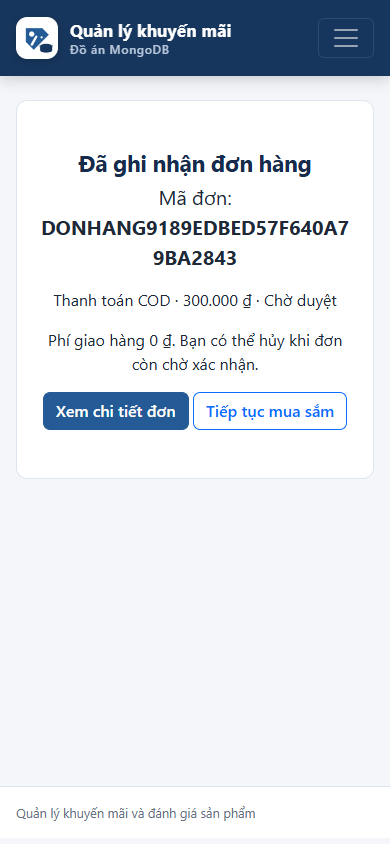
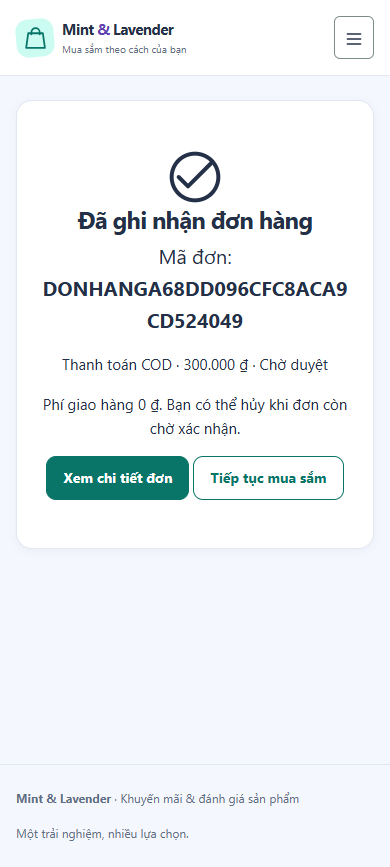
docs(ui): add theme and shopping verification screenshots

diff --git a/docs/MINT_LAVENDER_UI.md b/docs/MINT_LAVENDER_UI.md
@@ -1,0 +1,124 @@
+# Nâng cấp UI/UX Mint & Lavender
+
+Ngày kiểm tra: 13/11/2026 (Asia/Saigon). Triển khai trực tiếp trên repository Flask/Jinja2/Bootstrap hiện hữu.
+
+## A. Audit và quyết định thiết kế
+
+- Navbar xanh đậm trước đây gom toàn bộ nghiệp vụ và mua sắm vào một hàng. Nay header trắng cho mua sắm, sidebar quản trị riêng từ permission thực tế của từng vai trò. Nhân viên chỉ nhìn thấy các nhóm được cấp quyền; không đổi role matrix hay landing sau đăng nhập.
+- Các bộ lọc quản trị thiếu label, mất lựa chọn sau reload và phân trang sản phẩm làm mất query. Đã bổ sung label/reset, giữ giá trị và query; bộ lọc giá/nhãn được thu gọn, tự mở khi đang áp dụng.
+- Form CRUD trước đây render lại dữ liệu cũ/trống sau validation error. Nay template đọc lại request.form, escape bằng Jinja; tên field, quy tắc validation và cách ghi dữ liệu không đổi.
+- CSS trước đây thiên về navy/blue, focus ring vàng và bo góc nhỏ. Đã thay bằng hệ token Mint/Lavender, typography, spacing, shadow và radius dùng chung; không thêm thư viện UI hay font network.
+- Submit handler cũ vô hiệu hóa một số button trước khi browser thu thập dữ liệu. Nay giữ button nguyên vẹn, chặn submit lặp ở cấp form, chỉ đổi nhãn sau xác nhận và khôi phục khi quay lại bằng Back.
+- SVG trước đây scale nhãn quá nhỏ ở mobile và bảng dữ liệu bị ẩn hoàn toàn. Nay kích thước biểu đồ dựa theo vùng chứa, cuộn trong card khi cần, có tooltip và bảng số liệu mở được bằng bàn phím. API lỗi được phân biệt với không có dữ liệu và cô lập theo nhóm.
+- Trang lỗi trước đây luôn dẫn về route tổng quan chỉ Admin được xem. Nay dùng landing hiện hữu và có đường về catalog.
+
+## B. Tệp mã nguồn đã sửa/thêm
+
+| Đường dẫn | Thay đổi và mục đích |
+|---|---|
+| `scripts/verify_mint_ui.py` | Kiểm tra Edge 5 viewport, keyboard/navigation, overflow, reduced motion và lỗi/rỗng dashboard trên dữ liệu bộ nhớ. |
+| `static/css/app.css` | Design tokens, Bootstrap overrides, layout, card/form/table, responsive và reduced motion. |
+| `static/img/logo.svg` | SVG logo/ảnh dự phòng đồng bộ Mint & Lavender; favicon không gọi route không tồn tại. |
+| `static/img/product-placeholder.svg` | SVG logo/ảnh dự phòng đồng bộ Mint & Lavender; favicon không gọi route không tồn tại. |
+| `static/js/app.js` | Giữ submitter nguyên vẹn, khóa gửi lặp, khôi phục khi Back, password toggle, fallback ảnh và vùng bảng dùng bàn phím; giữ CSRF fetch wrapper. |
+| `static/js/dashboard.js` | Palette, SVG responsive, tooltip, bảng số liệu mở rộng, loading và lỗi riêng từng API. |
+| `static/js/reports.js` | Giữ vùng bảng truy cập bằng bàn phím sau chuyển báo cáo AJAX; tránh lặp thông báo lỗi. |
+| `templates/auth/account.html` | Account tabs theo quyền, badge/empty state/xác nhận thống nhất. |
+| `templates/auth/cart.html` | Tiến trình mua hàng; kế thừa tổng tiền sticky, form và voucher styling dùng chung. |
+| `templates/auth/catalog.html` | Hero, tìm kiếm/lọc, card ảnh/giá/rating/tồn kho và empty state; không tạo ưu đãi giả. |
+| `templates/auth/checkout.html` | Tiến trình, dấu bắt buộc, summary sticky và lời hướng dẫn; giữ action/CSRF/quote/formaction/formnovalidate. |
+| `templates/auth/login.html` | Form trung tâm, bố cục giới thiệu, giữ email sau lỗi, nút hiện/ẩn mật khẩu và autocomplete. |
+| `templates/auth/order_confirmation.html` | Account tabs theo quyền, badge/empty state/xác nhận thống nhất. |
+| `templates/auth/orders.html` | Account tabs theo quyền, badge/empty state/xác nhận thống nhất. |
+| `templates/auth/password.html` | Account tabs theo quyền, badge/empty state/xác nhận thống nhất. |
+| `templates/auth/public_product.html` | Ảnh đơn theo dữ liệu thật, khối mua hàng/thông số và badge xác minh có text. |
+| `templates/auth/reviews.html` | Account tabs theo quyền, badge/empty state/xác nhận thống nhất. |
+| `templates/auth/users.html` | Badge trạng thái tài khoản, giữ nguyên scope quản lý và tất cả hành động. |
+| `templates/auth/vouchers.html` | Voucher card có trạng thái, mã dạng vé, điều kiện và CTA từ dữ liệu hiện có. |
+| `templates/base.html` | Header mua sắm, chuyển không gian quản trị, dropdown, skip link, footer và phân bố layout theo quyền. |
+| `templates/components/admin_sidebar.html` | Macro icon/navigation/KPI/account tabs và sidebar chia nhóm theo permission; tái sử dụng Jinja. |
+| `templates/components/ui.html` | Macro icon/navigation/KPI/account tabs và sidebar chia nhóm theo permission; tái sử dụng Jinja. |
+| `templates/customers/detail.html` | Bọc bảng trong vùng cuộn ngang để bảo vệ layout mobile. |
+| `templates/customers/form.html` | Label liên kết input, ký hiệu bắt buộc, section và giữ toàn bộ dữ liệu không bí mật khi validation lỗi. |
+| `templates/customers/list.html` | Header, filter có label/reset và giữ lựa chọn, bảng và trạng thái nhất quán. |
+| `templates/dashboard/index.html` | Mô tả nghiệp vụ, loading, aria-live; giữ DOM ID và URL script hiện hữu. |
+| `templates/error.html` | Error state có hướng quay về theo landing hiện hữu và danh mục. |
+| `templates/home.html` | KPI và thẻ truy cập nhanh theo permission. |
+| `templates/orders/list.html` | Header, filter có label/reset và giữ lựa chọn, bảng và trạng thái nhất quán. |
+| `templates/products/detail.html` | Bọc bảng trong vùng cuộn ngang để bảo vệ layout mobile. |
+| `templates/products/form.html` | Label liên kết input, ký hiệu bắt buộc, section và giữ toàn bộ dữ liệu không bí mật khi validation lỗi. |
+| `templates/products/list.html` | Label/bộ lọc nâng cao, giữ query khi phân trang và bỏ liên kết disabled khỏi tab order. |
+| `templates/promotions/detail.html` | Bọc bảng trong vùng cuộn ngang để bảo vệ layout mobile. |
+| `templates/promotions/form.html` | Label liên kết input, ký hiệu bắt buộc, section và giữ toàn bộ dữ liệu không bí mật khi validation lỗi. |
+| `templates/promotions/list.html` | Header, filter có label/reset và giữ lựa chọn, bảng và trạng thái nhất quán. |
+| `templates/reviews/list.html` | Header, filter có label/reset và giữ lựa chọn, bảng và trạng thái nhất quán. |
+| `tests/test_shopping.py` | Chấp nhận aria-hidden="true" hợp lệ trong assertion; vẫn chặn supplierPassword và giá trị fixture bí mật. |
+| `tests/test_ui_regression.py` | 15 test bổ sung: sidebar của 8 vai trò, query phân trang, 5 bộ lọc và giữ/escape form lỗi. |
+
+Bằng chứng sinh trong lần chạy này: `docs/mint-lavender-test-results.xml`, `docs/shopping-replica-results.xml`, ảnh `docs/shopping-ui/`, ảnh và kết quả `docs/mint-lavender-ui/`. Ảnh dùng dữ liệu test tổng hợp, không phải dữ liệu khách hàng thật.
+
+## C. Thiết kế mới
+
+- Primary `#14B8A6`, hover `#0F9488`, nền `#CCFBF1`; secondary `#A78BFA`/`#EDE9FE`; accent `#FB7185`/`#FFE4E6`; nền trang `#F5F7FF`, surface trắng. Primary button dùng mint đậm `#087568` với chữ trắng để đạt AA. Lavender/pink dùng mực đậm trên nền sáng.
+- Chữ chính `#243047`; chữ phụ điều chỉnh từ `#64748B` sang `#5F6F85` để đạt 4.79:1 trên nền trang. Viền input `#8593A7` đạt 3.12:1 trên trắng. Giữ nguyên tinh thần bảng màu yêu cầu.
+- Font Inter nếu máy đã có, fallback Segoe UI/Arial hỗ trợ tiếng Việt; body 15px, title 24–30px. Radius 8/12/16/20px, spacing theo thang 4–48px.
+- Shopping: hero gọn, product grid 1/2/3/4 cột theo viewport, ảnh contain, tồn kho/rating thật, voucher dạng vé, cart/checkout 2 cột desktop và 1 cột mobile, account tabs.
+- Admin: sidebar desktop ở >=1200px; offcanvas mobile có focus trap/Escape. KPI, module card, bảng header mint, hover lavender và status có cả chữ/màu.
+- Accessibility: skip link, label/input, required marker, focus-visible, bảng có vùng cuộn focus được, password toggle với aria-pressed, hỗ trợ reduced motion. Không thêm animation liên tục.
+
+## D. Kiểm thử
+
+Dùng `.venv\Scripts\python.exe` thay cho Python hệ thống. Kết quả cuối được lưu kèm XML/JSON.
+
+| Lệnh / kiểm tra | Kết quả |
+|---|---|
+| `python -m pytest -q --junitxml=docs/mint-lavender-test-results.xml` | PASS: 239 test, SKIP: 15 test cần MongoDB thật. |
+| `python scripts/verify_shopping_replica.py` | PASS: 15/15 test tích hợp MongoDB thật; Edge desktop/mobile chạy trọn mua sắm. Script tạo replica container ngẫu nhiên riêng và tự dọn. |
+| `python scripts/verify_mint_ui.py` | PASS: 85 mục kiểm tra ở 5 viewport; kết quả chi tiết: [results.json](mint-lavender-ui/results.json). |
+| `python -m compileall -q app.py config.py db repositories routes services scripts` | PASS. |
+| `node --check static/js/app.js` | PASS. |
+| `node --check static/js/dashboard.js` | PASS. |
+| `node --check static/js/reports.js` | PASS. |
+| `docker compose config --quiet` | PASS; cùng bước xác thực cấu hình như `docker compose config`, không in credential đã nội suy. |
+| `git diff --check` | PASS. |
+| 11 cặp màu chữ/control | PASS; số đo cụ thể: [contrast.json](mint-lavender-ui/contrast.json). |
+
+Luồng đã xác minh:
+
+- Guest: catalog, tìm kiếm/lọc, chi tiết, đánh giá approved, login; danh mục rỗng có đường quay lại.
+- Customer trên replica thật: đăng nhập, thêm giỏ, áp mã, tạo quote, bỏ/áp lại mã ở checkout mà giữ số điện thoại, đặt COD, xem đơn, đánh giá từ đơn đủ điều kiện, hủy pending. Suite HTTP kiểm tra thêm sửa số lượng/xóa, giá/điều kiện mã/ownership/CSRF và lỗi quote.
+- Admin trên replica: xác nhận/hoàn tất đơn qua button name/value; các trang quản trị, thống kê, báo cáo và tài khoản trên Edge. CRUD và validation qua test tự động.
+- 8 vai trò: route/method matrix hiện có, sidebar chỉ chứa đúng destination được phép; scope tài khoản và sở hữu đơn/review được kiểm tra.
+- UI: 360/390/768/1024/1440px, không cuộn ngang toàn trang; menu mở/đóng, Escape, mật khẩu hiện/ẩn, skip link; dashboard loading kết thúc, lỗi một API giữ nhóm khác, trạng thái rỗng; reduced motion; không có JS exception ngoài lỗi API chủ động mô phỏng.
+- Mô phỏng không gian hiển thị khi zoom 200% bằng CSS viewport 720px từ desktop 1440px. Chưa thao tác zoom thực trong giao diện browser hay kiểm thử screen reader thật.
+
+Giới hạn môi trường: Mongomock phát cảnh báo `datetime.utcnow()` từ dependency. Một số lượt sandbox không ghi được cache pytest hoặc đọc Docker config; lượt cần Docker/network đã chạy trong môi trường được cấp quyền và có kết quả thực. Không đổi CSP, authentication hay CSRF để chạy browser. Bootstrap vẫn dùng CDN hiện hữu, cần kết nối mạng ở lần tải đầu.
+
+## E. Bảo toàn bảo mật và nghiệp vụ
+
+Không sửa `routes/`, `services/`, `repositories/`, `db/`, `app.py`, `config.py`, schema hay cấu hình Docker. Không đổi endpoint, HTTP method, API envelope, CRUD, RBAC, quyền sở hữu, phiên đăng nhập hoặc tính toán giá/tồn kho/mã/checkout/review.
+
+Mọi form POST giữ CSRF. Fetch wrapper vẫn chỉ bổ sung X-CSRF-Token cho same-origin POST/PUT/PATCH/DELETE. Checkout giữ action/key, confirmation, formnovalidate/formaction của nút áp mã và name/value của submitter. Test replica bao gồm rollback, checkout đồng thời/replay, quote hết hạn/sai chủ/thay đổi giỏ và vòng đời tồn kho/lượt mã.
+
+Không đưa dữ liệu API chưa escape vào HTML. Nội dung động dùng textContent hoặc escapeHtml; Jinja giữ autoescape. Không thêm đăng ký công khai, quên mật khẩu, gallery nhiều ảnh, giảm giá giả hay lộ lượt dùng mã nội bộ. Không import/reset hoặc chỉnh sửa dữ liệu thật, không commit/push.
+
+## F. Kết quả và cách chạy
+
+Đã triển khai giao diện thống nhất cho mua sắm, account, overview/dashboard, các trang quản trị và báo cáo. Các kiểm thử nghiệp vụ, phân quyền và giao dịch nêu trên đạt. Xem [catalog desktop](mint-lavender-ui/1440-guest-catalog.png), [dashboard desktop](mint-lavender-ui/1440-dashboard.png), [catalog mobile](mint-lavender-ui/360-guest-catalog.png), [dashboard mobile](mint-lavender-ui/360-dashboard.png), [checkout mobile trên replica](shopping-ui/mobile-checkout.png).
+
+Chạy ứng dụng theo cấu hình `.env` hiện có:
+
+```powershell
+.\.venv\Scripts\python.exe app.py
+```
+
+Mở `/catalog` và `/login` tại host/cổng ứng dụng in ra; `.env.example`/README dùng `http://127.0.0.1:5002`. Nếu dùng Docker hiện hữu, build lại app bằng `docker compose up --build -d app`; không chạy thêm Python cùng cổng. Chưa tự restart/deploy bản ứng dụng đang phục vụ người dùng.
+
+Chạy lại kiểm tra giao diện (cần Playwright và Microsoft Edge đã cài):
+
+```powershell
+.\.venv\Scripts\python.exe scripts/verify_mint_ui.py
+.\.venv\Scripts\python.exe scripts/verify_shopping_replica.py
+```
+
+Phần chưa xác minh: Safari/Firefox, thiết bị vật lý, screen reader thực, zoom browser thực, chứng nhận WCAG toàn diện, performance/load/HA production. Số đo tương phản là 11 cặp màu chủ chốt, không phải audit mọi pixel/overlay. Không có thay đổi backend đang chờ hoàn tất.

diff --git a/docs/SHOPPING.md b/docs/SHOPPING.md
@@ -287,3 +287,11 @@ Tham chiếu: [PyMongo transactions/callback retries](https://www.mongodb.com/do
 - `tests/test_shopping.py`, `tests/test_shopping_replica.py`, `tests/shopping_support.py`: unit/HTTP/concurrency fixtures.
 - `scripts/verify_shopping_replica.py`, `scripts/verify_shopping_browser.py`, `scripts/verify_shopping_compose.py`: môi trường kiểm thử thật riêng.
 - `scripts/export_security_policy.py`, README và các tài liệu schema/policy: hướng dẫn, ma trận, route và bằng chứng.
+
+## Tự cập nhật giá khi thay đổi giỏ và mã
+
+`static/js/shopping.js` gửi lại form hiện hữu khi người dùng xác nhận thay đổi số lượng (change), nhập mã rồi rời ô, hoặc chọn/bỏ mã trong dropdown. Không cần bấm nút Cập nhật/Áp mã; các nút vẫn dùng được như thao tác dự phòng. Thêm sản phẩm vẫn đi qua POST giỏ hiện hữu và hiển thị giá mới từ máy chủ.
+
+Tại checkout, script gọi requestSubmit đúng nút có formaction checkout_promotion, formnovalidate và data-skip-confirm. Máy chủ tạo quote mới và giữ thông tin nhận hàng. Không gọi nút đặt hàng, không tính tiền bằng JS, không bỏ CSRF/ownership/quote validation. Giá được cập nhật qua phản hồi trang của máy chủ.
+
+Kiểm tra liên quan: tests/test_shopping.py và tests/test_promotion_offers.py (32 PASS), script verify_shopping_replica.py (15 test replica PASS và browser desktop/mobile). Browser kiểm tra số lượng 1→2→1, giữ ưu đãi, tự áp/bỏ mã ở checkout mà không tạo đơn và không mất số điện thoại.
